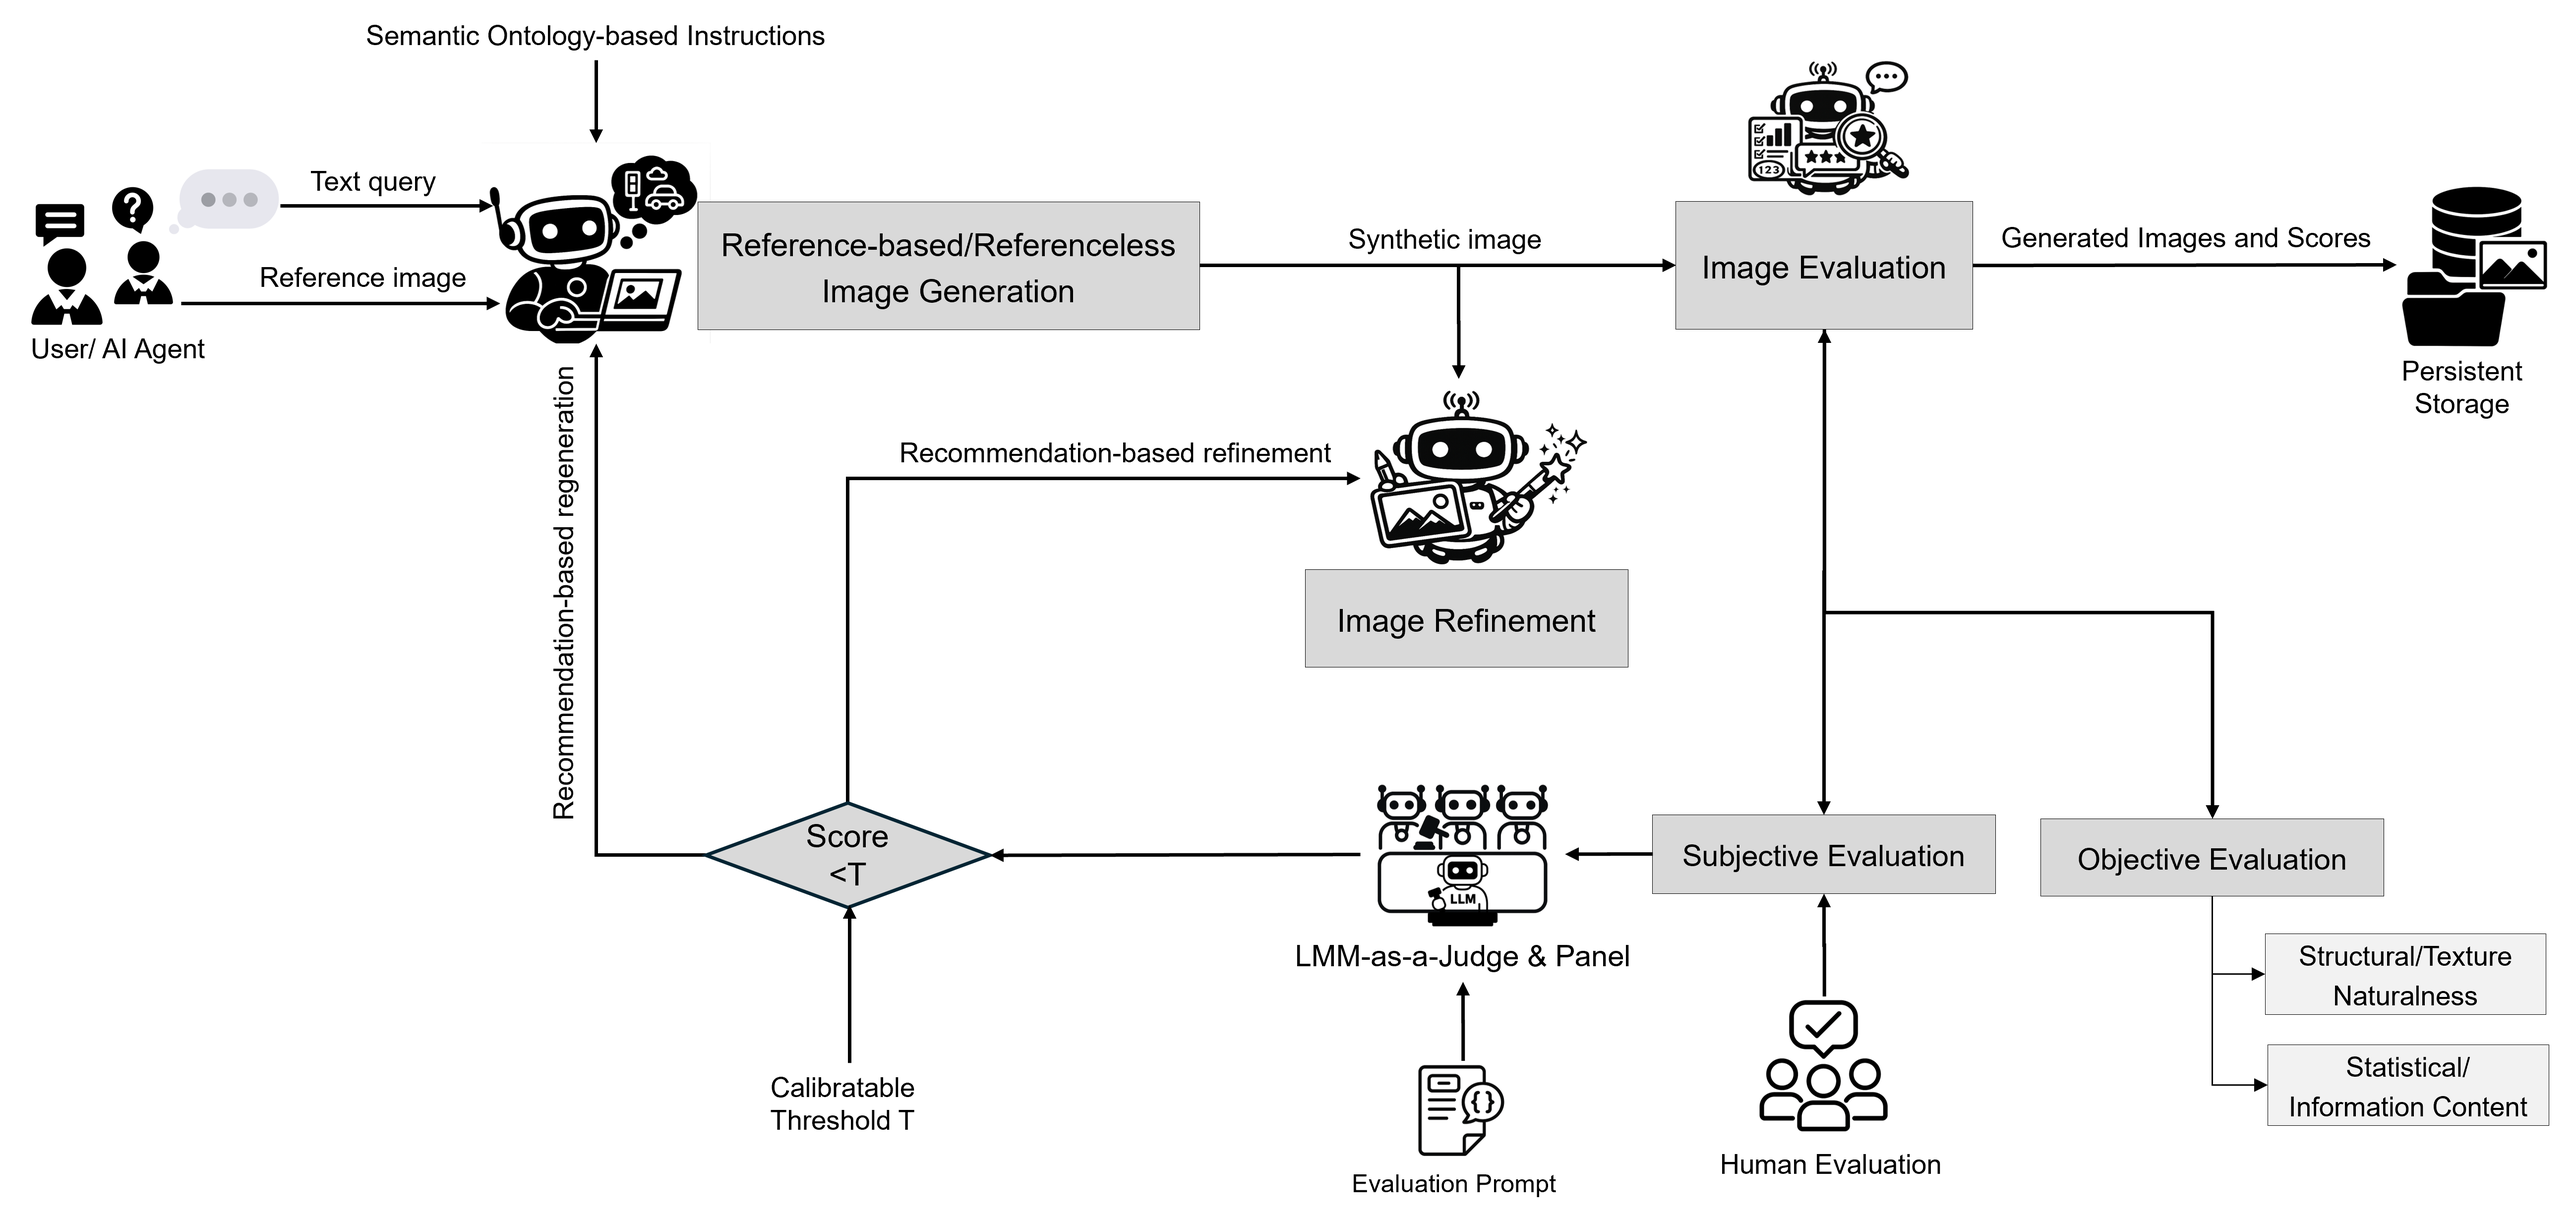
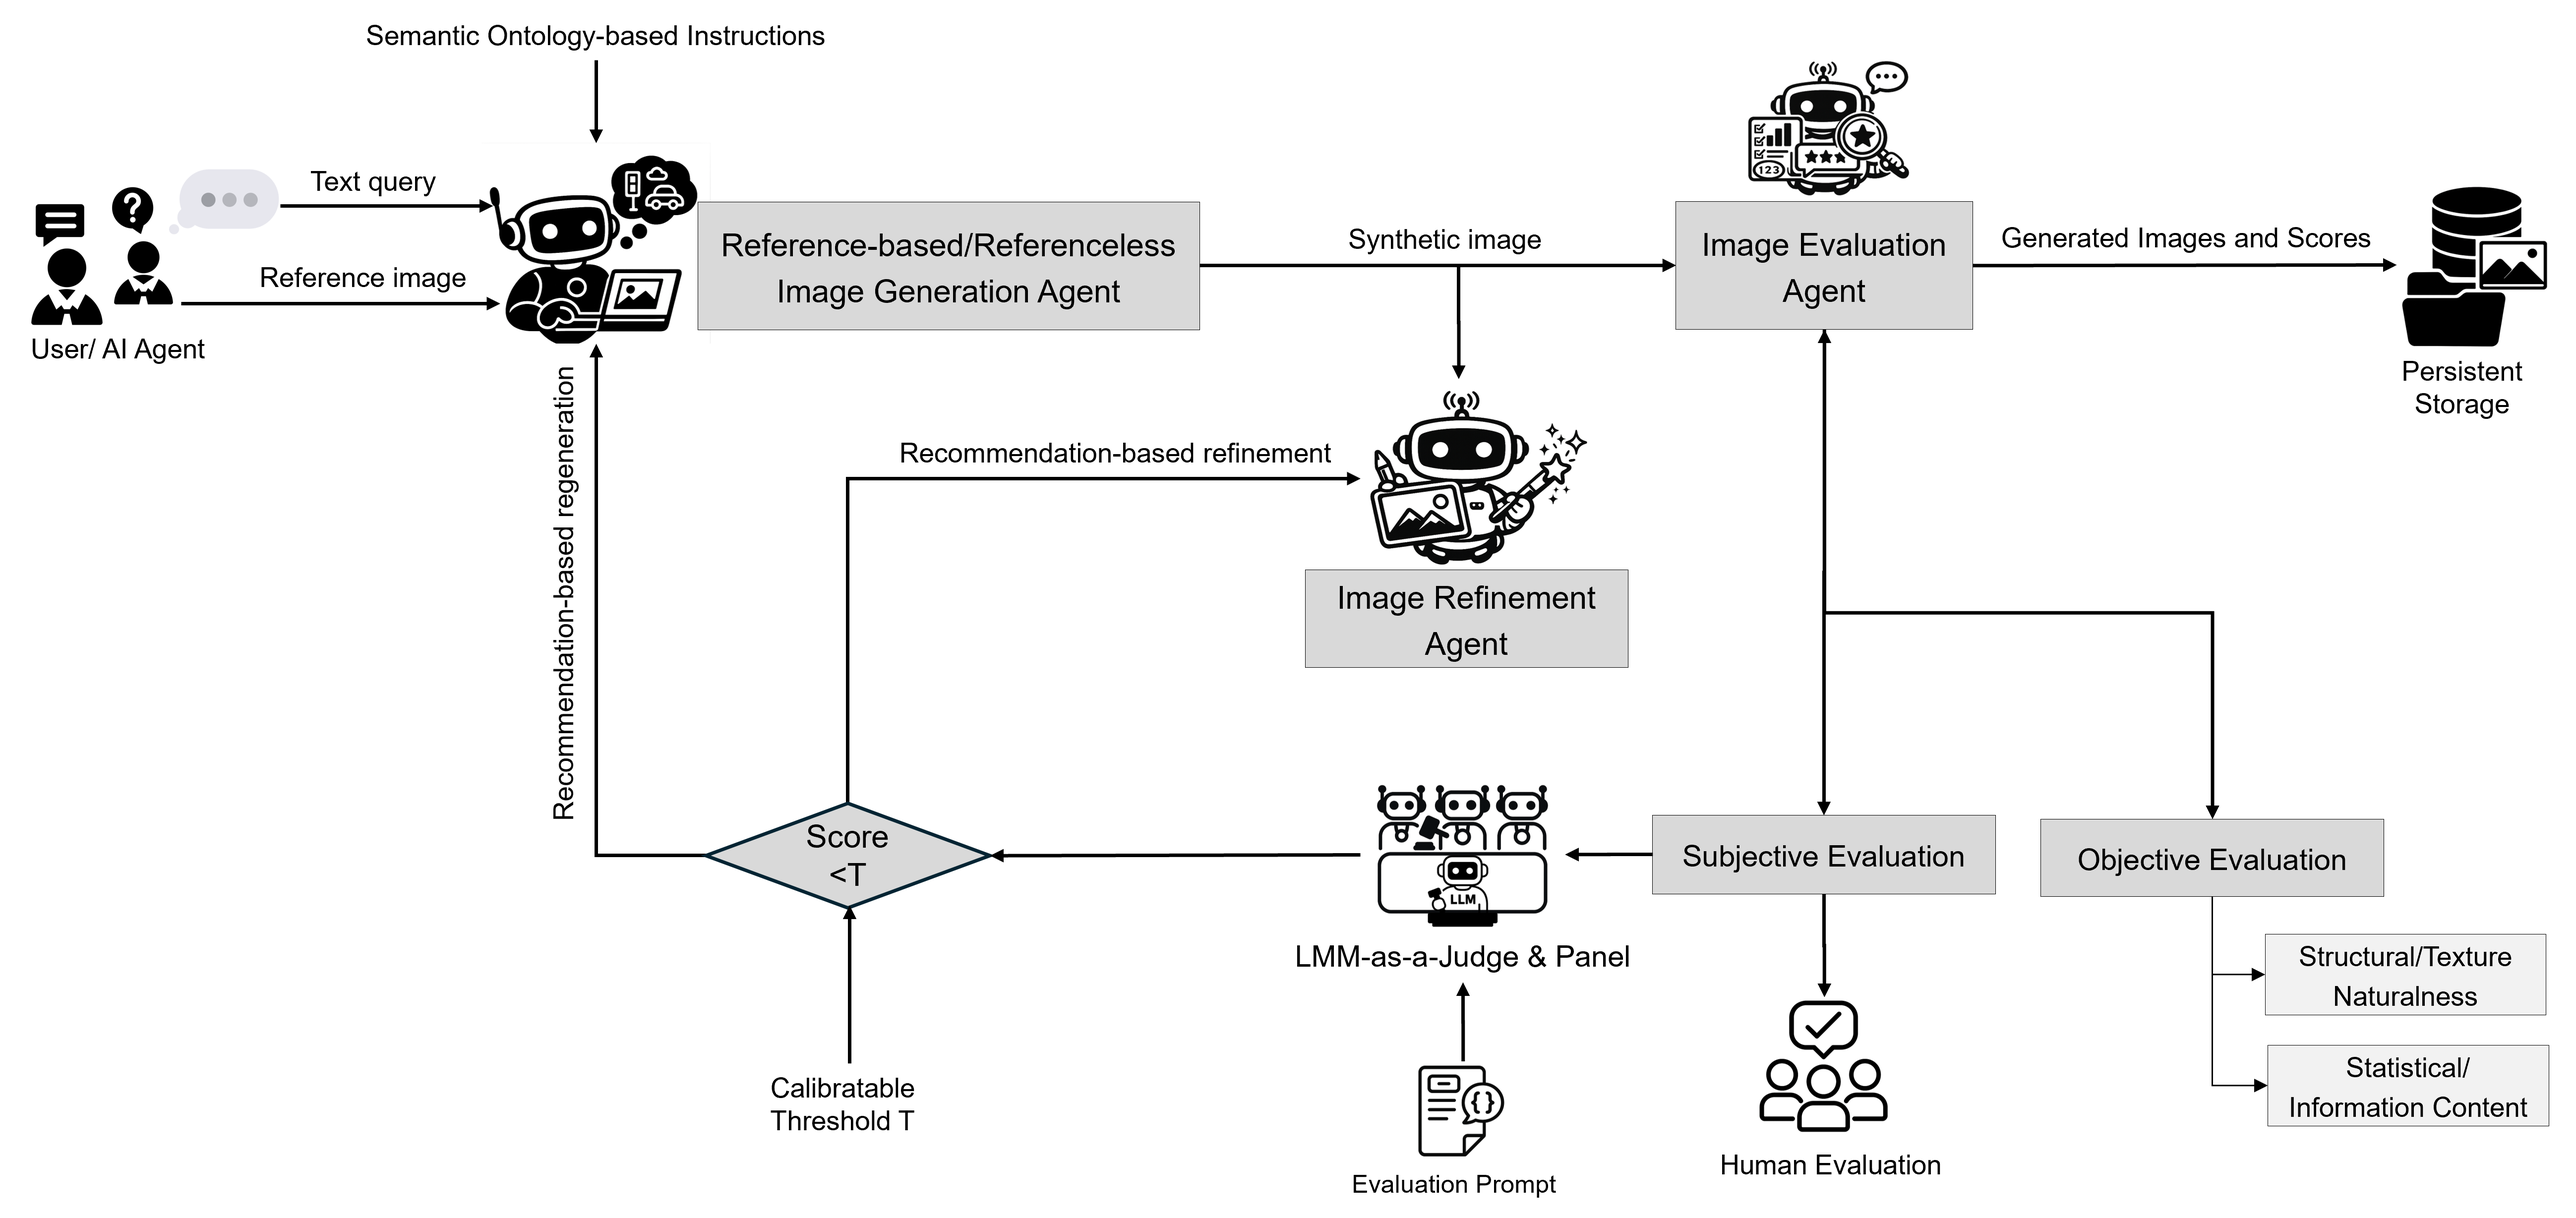
update

diff --git a/README.md b/README.md
@@ -106,11 +106,73 @@ Scores are reported on a **5-point Likert scale**, where higher values indicate 
 
 ---
 
+## 🔎 Object Detectability Analysis
+
+Beyond perceptual realism, the paper also evaluates whether the generated images preserve **semantic cues required by downstream perception systems**. To assess this, a **zero-shot object detection analysis** was conducted using two state-of-the-art detectors:
+
+- **YOLO-World**
+- **GINO (Grounded DINO)**
+
+The analysis focuses on detecting **large animals relevant to wildlife–traffic scenarios**, including:
+
+- Camel  
+- Elephant  
+- Kangaroo  
+- Deer  
+
+Bounding-box annotations were created using **Label Studio**, enabling quantitative evaluation using standard object detection metrics.
+
+---
+
+## 📊 Detection Metrics
+
+| Metric | Description |
+|------|------|
+| **Precision** | TP / (TP + FP) |
+| **Recall** | TP / (TP + FN) |
+| **F1-score** | Harmonic mean of Precision and Recall |
+| **False Negative Rate (FNR)** | FN / (FN + TP) |
+| **False Alarm Rate (FAR)** | FP / (FP + TP) |
+| **mAP@0.50** | Mean Average Precision at IoU threshold 0.50 |
+| **mAP@0.50:0.95** | COCO-standard mAP averaged across IoU thresholds |
+| **Mean IoU (TP)** | Average IoU of matched true-positive detections |
+
+---
+
+## 📊 Sample Detection Results
+
+| Object Detector | Model | Precision | Recall | F1 | FNR | mAP@0.50 | mAP@0.50:0.95 | Mean IoU |
+|---|---|---|---|---|---|---|---|---|
+| YOLO-World | OpenAI Models | 0.80 | **0.63** | **0.90** | 0.37 | **0.57** | **0.46** | **0.93** |
+| YOLO-World | Gemini 3 Pro | **0.90** | 0.41 | 0.75 | **0.59** | 0.50 | 0.28 | 0.88 |
+| GINO | OpenAI Models | **0.98** | **1.00** | **0.98** | **0.00** | **0.97** | **0.76** | **0.93** |
+| GINO | Gemini 3 Pro | 0.92 | 0.89 | 0.93 | 0.11 | 0.73 | 0.58 | 0.88 |
+
+---
+
+## 🖼 Detection Examples
+
+![OpenAI Detection Results](images/OpenAI.png)
+
+**Figure:** Zero-shot detection examples on synthetic images generated using **OpenAI models**. Upper row: YOLO-World. Lower row: GINO.
+
+![Gemini Detection Results](images/Gemini.png)
+
+**Figure:** Zero-shot detection examples on synthetic images generated using **Gemini 3 Pro**. Upper row: YOLO-World. Lower row: GINO.
+
+
+---
+
 ## 📊 Sample Results & Brief Observations
 
 - Referenceless ontology-guided generation outperforms reference-based pipelines in perceptual realism.
 - Recommendation-driven regeneration is more effective than direct refinement.
 - Gemini 3 Pro achieves near-parity with natural images in subjective realism.
+- GINO consistently outperforms YOLO-World**, producing tighter localization and higher recall across both generation models.
+- OpenAI-generated images show stronger detectability, particularly under GINO where recall reaches **1.00**.
+- Gemini 3 Pro images often achieve higher precision, but suffer from higher missed-detection rates under YOLO-World.
+- The results demonstrate that perceptual realism alone does not guarantee downstream perception performance.
+- From a safety perspective, both false negatives (missed detections) and false alarms (spurious detections) are important in assisted and automated driving systems. Missed detections may lead to unrecognized obstacles, while excessive false alarms can trigger unnecessary braking or evasive maneuvers.
 
 ---
 
